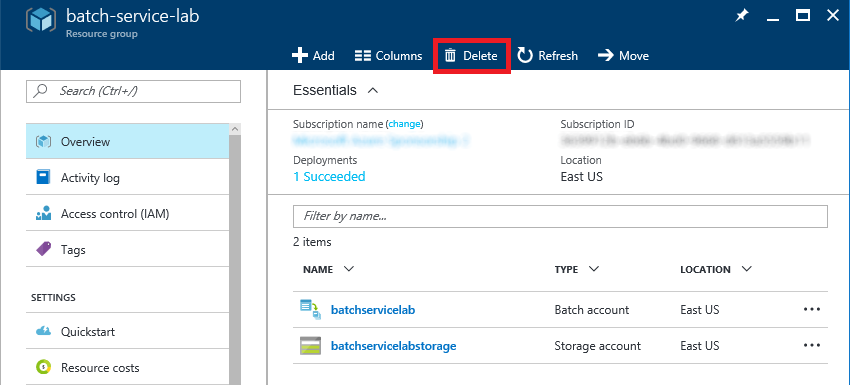
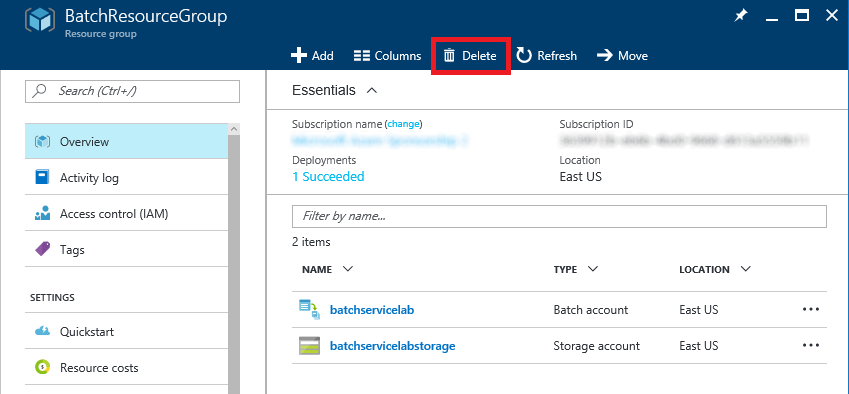
Updated Batch lab

diff --git a/Content/Batch/Azure Batch HOL.md b/Content/Batch/Azure Batch HOL.md
@@ -70,11 +70,11 @@ Azure Batch accounts are simple to setup through the Azure Portal.
 
 	_Creating a Batch service_
 
-1. In the "New Batch account" blade, give the account a unique name such as "batchservicelab" and make sure a green check mark appears next to it. (You can only use numbers and lowercase letters since the name becomes part of a DNS name.) Select **Create new** under **Resource group** and name the resource group "batch-service-lab". Select the **Location** nearest you, and then click **Select a storage account**.
+1. In the "New Batch account" blade, give the account a unique name such as "batchservicelab" and make sure a green check mark appears next to it. (You can only use numbers and lowercase letters since the name becomes part of a DNS name.) Select **Create new** under **Resource group** and name the resource group "BatchResourceGroup." Select the **Location** nearest you, and then click **Select a storage account**.
 
-	![Entering Batch service parameters](Images/setup-azure-batch-2.png)
+	![Entering Batch account parameters](Images/batch-parameters.png)
 
-	_Entering Batch service parameters_
+	_Entering Batch account parameters_
 
 1. Click **Create new** to create a new storage account for the Batch service.
 
@@ -92,7 +92,7 @@ Azure Batch accounts are simple to setup through the Azure Portal.
 
 1. Click the **Create** button at the bottom of the "New Batch account" blade to start the deployment
 
-	![Creating a Batch account](Images/setup-azure-batch-3.png)
+	![Creating a Batch account](Images/create-batch-account.png)
 
 	_Creating a Batch account_
 
@@ -266,9 +266,9 @@ Three of the four JSON files are already configured in the solution recipe. The 
 	},
 	```
 
-1. In the Azure Portal, return to the "batch-service-lab" resource group and click the storage account in that resource group.
+1. In the Azure Portal, return to the "BatchResourceGroup" resource group and click the storage account in that resource group.
 
-	![Opening the storage account](Images/select-batch-service-storage-account.png)
+	![Opening the storage account](Images/open-storage-account.png)
 
 	_Opening the storage account_
 
@@ -329,9 +329,9 @@ This command will take a few minutes to complete. Batch Shipyard is creating vir
 
 While the pool is being created, this is a good time to prepare the data for the jobs. The lab uses Azure File Storage for data input and output. The configuration files tell Batch Services to mount an Azure file share inside of a container. The container can read data in and then write data back to the file share as output.
 
-1. In the Azure Portal, return to the "batch-service-lab" resource group and click the storage account in that resource group.
+1. In the Azure Portal, return to the "BatchResourceGroup" resource group and click the storage account in that resource group.
 
-	![Opening the storage account](Images/select-batch-service-storage-account.png)
+	![Opening the storage account](Images/open-storage-account.png)
 
 	_Opening the storage account_
 
@@ -431,9 +431,9 @@ Once the job has finished running, the next task is to examine the output that i
 
 The results are now available in the storage account. The output file can be downloaded and played back locally in any media player that supports the .ogg file type.
 
-1. In the Azure Portal, return to the "batch-service-lab" resource group and click the storage account in that resource group.
+1. In the Azure Portal, return to the "BatchResourceGroup" resource group and click the storage account in that resource group.
 
-	![Opening the storage account](Images/select-batch-service-storage-account.png)
+	![Opening the storage account](Images/open-storage-account.png)
 
 	_Opening the storage account_
 
